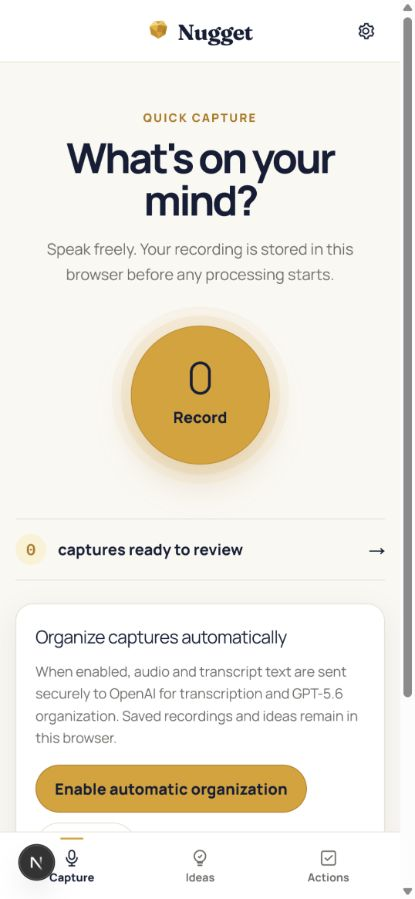
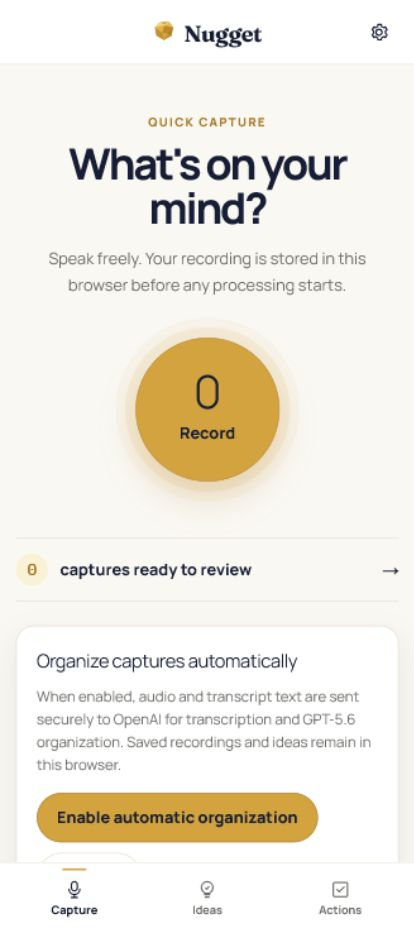
docs: refresh sprint 3 production evidence

diff --git a/docs/qa/sprint-3-mobile-checklist.md b/docs/qa/sprint-3-mobile-checklist.md
@@ -22,7 +22,7 @@ Automated evidence does not substitute for a real-phone result where the checkli
 | Desktop-sized automated gate | Pass | Sol reported `npm run check` passing typecheck, lint, 42 test files / 292 tests, and the Next.js production build. |
 | Final Task 5 focused verification | Pass | `npx vitest run src/features/review/ReviewScreen.test.tsx src/features/review/IdeaCandidateForm.test.tsx src/features/library/ConfirmedIdeasPreview.test.tsx` passed 3 files / 22 tests after the final candidate isolation guard. The later modal recovery fix also passed the same 3 files / 22 tests plus typecheck, lint, and `git diff --check`. |
 | Independent Task 5 review | Pass | Commits `af2c744`, `494d90e`, and `3b64ad9` were independently reviewed. The initial modal-retry finding was fixed in `3b64ad9`, and re-review approved the result. |
-| In-app mobile viewport | Pass | Sol verified the local app at 430 x 932 using `http://127.0.0.1:3011`. The Capture home put one-tap Record first and showed the zero-review queue link, typed fallback, recent captures, and persistent bottom navigation. `/ideas` showed the honest empty-library state with persistent navigation. |
+| In-app mobile viewport | Pass | Sol verified the local app at 430 x 932 using `http://127.0.0.1:3011`. The Capture home put one-tap Record first and showed the zero-review queue link, typed fallback, recent captures, and persistent bottom navigation. `/ideas` showed the honest empty-library state with persistent navigation. Final screenshots were then recaptured from the production build server using `next start` at `http://127.0.0.1:3012`, without development controls. |
 | Synthetic typed save and reload | Pass | Sol saved a synthetic 369-character typed ramble. The app navigated to `/capture/47190cef-001c-46bf-835a-be162378c850`, displayed Transcript Version 1, the processing timeline, and the cloud disclosure. A full reload preserved the same capture and transcript, with no console errors observed. |
 | Real phone and HTTPS preview | Blocked | No real phone connected to an HTTPS-capable deployed preview was available during the overnight run. Plain LAN HTTP is not sufficient evidence for mobile `getUserMedia`. |
 | Microphone authority | Blocked | Microphone acceptance requires explicit permission confirmation and a supported secure browser context. That confirmation was unavailable for this documentation pass. |
@@ -81,8 +81,8 @@ Automated evidence does not substitute for a real-phone result where the checkli
 
 | Path | Evidence | Status |
 |---|---|---|
[4 lines of base64/hex data omitted]
 | `docs/hackathon/evidence/sprint-3/capture-recording.png` | Not produced. Active microphone recording requires explicit permission acceptance and a real phone/HTTPS-capable preview. | Blocked |
 | `docs/hackathon/evidence/sprint-3/three-idea-confirmation.png` | Not produced. The live GPT/evaluation run was deferred under the overnight cost ceiling; API usage remains $0. | Blocked |
 

diff --git a/docs/hackathon/BUILD_WEEK_EVIDENCE.md b/docs/hackathon/BUILD_WEEK_EVIDENCE.md
@@ -5,7 +5,7 @@
 | 0 | 2026-07-15 | `187e738`, `c3b7273`, `dbdf33c`, `afc37b3`, and `a56d0b5` | Continuous overnight Codex goal: implement and verify the Nugget MVP sprint-by-sprint through Terra | `npm run check` — typecheck and lint passed; 23 test files / 49 tests passed; Next.js production build passed | Not required for the CI baseline | CI runs `npm ci` and `npm run check` for pull requests and pushes to `main` or `codex/mvp-overnight-2026-07-15` |
[1 lines of base64/hex data omitted]
 | 2 | 2026-07-16 | `f35c73c`, `a12e98e`, `f4650bd`, `a40c083`, `5be9d5c`, `40856ef`, `556b621`, `f3ba1d8`, `dca5a5d`, and the Task 7 commit containing this row | Continuous overnight Codex goal implemented through the project-scoped Terra worker; no session ID invented | Deterministic eval: `npx vitest run src/lib/evals/scoring.test.ts` passed 1 file / 10 tests. Full `npm run check`: typecheck and lint passed; 33 non-live files / 216 tests passed; Next.js production build passed. Live preflight: `npm run eval:live` without `OPENAI_API_KEY` failed before provider-client creation with the required safe configuration message. Production defaults and eval metadata are model `gpt-5.6`, reasoning `medium`, prompts `segment-v1` / `organize-v1`, and schemas `segmentation-v1` / `organization-v1`. | Not produced: the cost-deferred live run generated neither a multi-idea payload screenshot nor `docs/evals/latest.json` | Deterministic harness is verified, but no live score is claimed. The 69,600-token maximum output budget alone is $2.088 at the supplied $30/M output rate, before input, so the run was not authorized under the approximately $2 overnight ceiling. The live-evaluation score and screenshot exit-gate items remain open. |
[2 lines of base64/hex data omitted]
 | 4 |  |  |  |  |  |  |
 | 5 |  |  |  |  |  |  |
 | 6 |  |  |  |  |  |  |